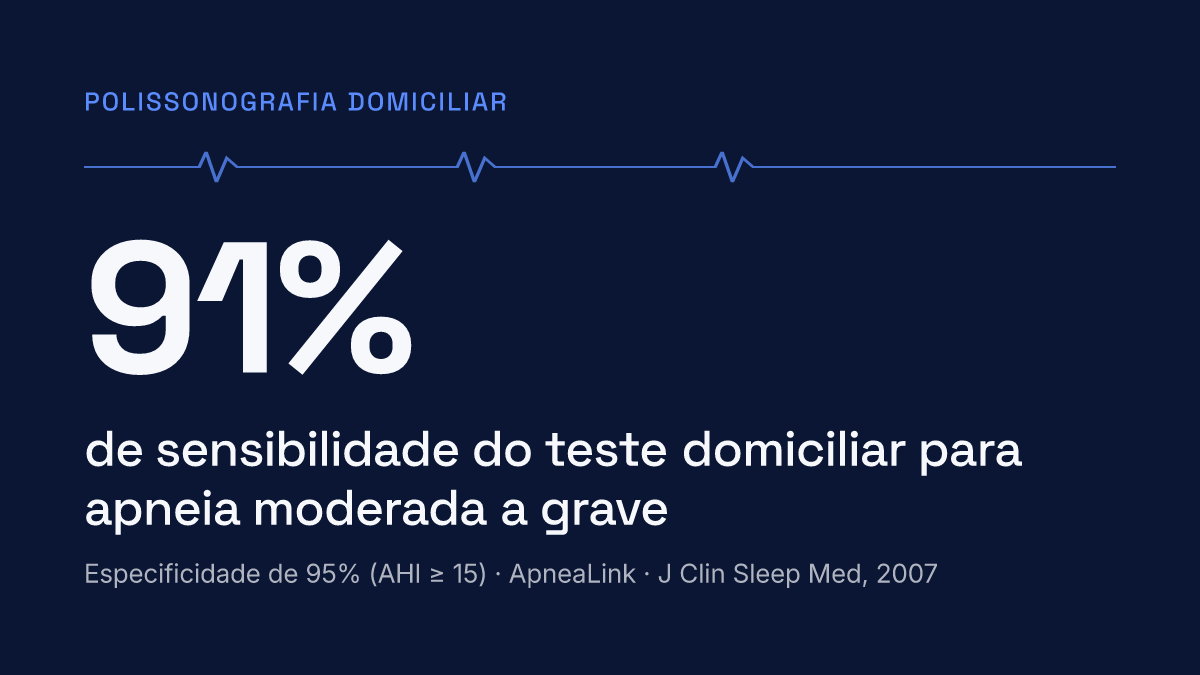
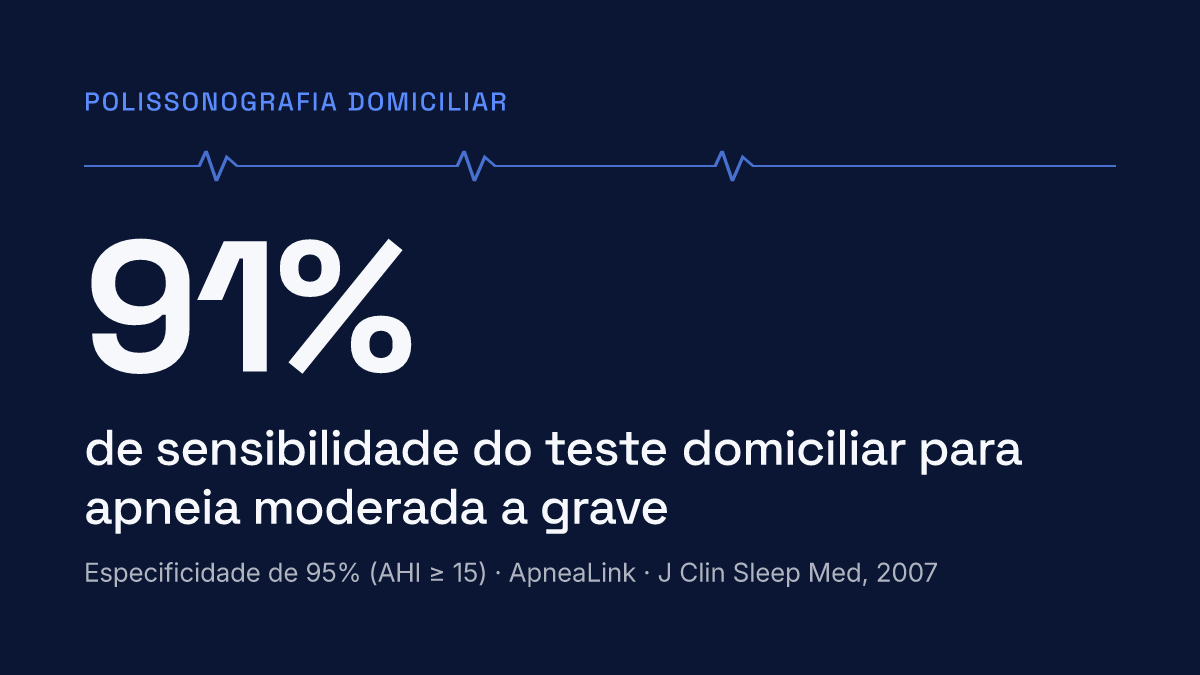
Corrige distorcao das imagens dos cards e adiciona versao mobile
Bug real: os <img> tinham width/height="1200"/"675" fixos no HTML, mas o
CSS so sobrescrevia a largura (width:100%), deixando a altura travada em
675px em qualquer largura de tela. Resultado: card esticado verticalmente
e ocupando altura maior que deveria. Fix: height:auto na regra
.article-content figure img.

Adiciona versao mobile (formato 4:5) de cada um dos 6 cards, seguindo o
padrao ja usado no resto do site (<picture> com fonte mobile abaixo de
768px, WebP com fallback PNG). Levou a um segundo bug real: nos dois
layouts do card-service, o conteudo ficava colado numa ponta (topo ou
rodape) e no formato retrato sobrava um vao vazio enorme no meio —
corrigido no card-service centralizando o bloco de conteudo verticalmente
nos dois layouts (commit correspondente no repo pulsemd-automacao).

diff --git a/apneia-do-sono-e-fibrilacao-atrial.html b/apneia-do-sono-e-fibrilacao-atrial.html
@@ -122,7 +122,12 @@
     </div>
 
     <figure>
-      <img src="images/cards/apneia-fa-abertura.png" alt="O ronco deixou de ser só um incômodo noturno — a apneia obstrutiva do sono é hoje reconhecida como fator de risco cardiovascular modificável, ligado à fibrilação atrial" loading="lazy" width="1200" height="675">
+      <picture>
+        <source media="(max-width: 768px)" srcset="images/cards/apneia-fa-abertura-mobile.webp" type="image/webp">
+        <source media="(max-width: 768px)" srcset="images/cards/apneia-fa-abertura-mobile.png">
+        <source srcset="images/cards/apneia-fa-abertura.webp" type="image/webp">
+        <img src="images/cards/apneia-fa-abertura.png" alt="O ronco deixou de ser só um incômodo noturno — a apneia obstrutiva do sono é hoje reconhecida como fator de risco cardiovascular modificável, ligado à fibrilação atrial" loading="lazy" width="1200" height="675">
+      </picture>
     </figure>
 
     <p>A fibrilação atrial é a arritmia cardíaca sustentada mais comum do mundo. Ela afeta milhões de pessoas e está associada a um maior risco de acidente vascular cerebral (AVC), insuficiência cardíaca, hospitalizações e redução da qualidade de vida. Muitos pacientes recebem o diagnóstico após episódios de palpitações, sensação de coração acelerado, falta de ar ou cansaço excessivo, enquanto outros descobrem a condição durante exames de rotina, mesmo sem sintomas evidentes.</p>
@@ -155,7 +160,12 @@
 
 
     <figure>
-      <img src="images/cards/apneia-fa-mecanismo.png" alt="Cada pausa na respiração cobra um preço do coração — queda de oxigênio, descarga de adrenalina, oscilação da pressão e inflamação remodelam os átrios ao longo do tempo" loading="lazy" width="1200" height="675">
+      <picture>
+        <source media="(max-width: 768px)" srcset="images/cards/apneia-fa-mecanismo-mobile.webp" type="image/webp">
+        <source media="(max-width: 768px)" srcset="images/cards/apneia-fa-mecanismo-mobile.png">
+        <source srcset="images/cards/apneia-fa-mecanismo.webp" type="image/webp">
+        <img src="images/cards/apneia-fa-mecanismo.png" alt="Cada pausa na respiração cobra um preço do coração — queda de oxigênio, descarga de adrenalina, oscilação da pressão e inflamação remodelam os átrios ao longo do tempo" loading="lazy" width="1200" height="675">
+      </picture>
     </figure>
 
     <h2>Como a apneia do sono afeta o coração?</h2>
@@ -176,7 +186,12 @@
 
 
     <figure>
-      <img src="images/cards/apneia-fa-prevalencia.png" alt="78% dos pacientes com fibrilação atrial têm algum distúrbio respiratório do sono — revisão sistemática com 23.894 pacientes, Canadian Journal of Cardiology, 2021" loading="lazy" width="1200" height="675">
+      <picture>
+        <source media="(max-width: 768px)" srcset="images/cards/apneia-fa-prevalencia-mobile.webp" type="image/webp">
+        <source media="(max-width: 768px)" srcset="images/cards/apneia-fa-prevalencia-mobile.png">
+        <source srcset="images/cards/apneia-fa-prevalencia.webp" type="image/webp">
+        <img src="images/cards/apneia-fa-prevalencia.png" alt="78% dos pacientes com fibrilação atrial têm algum distúrbio respiratório do sono — revisão sistemática com 23.894 pacientes, Canadian Journal of Cardiology, 2021" loading="lazy" width="1200" height="675">
+      </picture>
     </figure>
 
     <h2>Quem deve investigar apneia do sono?</h2>

diff --git a/fibrilacao-atrial-recorrencia-apos-ablacao.html b/fibrilacao-atrial-recorrencia-apos-ablacao.html
@@ -128,7 +128,12 @@
     </div>
 
     <figure>
-      <img src="images/cards/ablacao-fa-abertura.png" alt="A ablação trata a arritmia, não trata o que a alimenta — fatores como a apneia do sono seguem agindo sobre o coração e podem favorecer o retorno da fibrilação atrial" loading="lazy" width="1200" height="675">
+      <picture>
+        <source media="(max-width: 768px)" srcset="images/cards/ablacao-fa-abertura-mobile.webp" type="image/webp">
+        <source media="(max-width: 768px)" srcset="images/cards/ablacao-fa-abertura-mobile.png">
+        <source srcset="images/cards/ablacao-fa-abertura.webp" type="image/webp">
+        <img src="images/cards/ablacao-fa-abertura.png" alt="A ablação trata a arritmia, não trata o que a alimenta — fatores como a apneia do sono seguem agindo sobre o coração e podem favorecer o retorno da fibrilação atrial" loading="lazy" width="1200" height="675">
+      </picture>
     </figure>
 
     <p>Para muitos pacientes, a ablação representa o fim de uma longa jornada marcada por palpitações, consultas, medicamentos e limitações na rotina. O procedimento é uma das maiores conquistas da eletrofisiologia moderna e oferece excelentes resultados: em muitos casos, reduz os sintomas, melhora a qualidade de vida e diminui a recorrência da fibrilação atrial.</p>
@@ -145,7 +150,12 @@
 
 
     <figure>
-      <img src="images/cards/ablacao-fa-recorrencia.png" alt="+70% de risco de recorrência da fibrilação atrial em quem tem apneia do sono não tratada — meta-análise com 4.572 pacientes, odds ratio 1,70, Journal of Evidence-Based Medicine, 2018" loading="lazy" width="1200" height="675">
+      <picture>
+        <source media="(max-width: 768px)" srcset="images/cards/ablacao-fa-recorrencia-mobile.webp" type="image/webp">
+        <source media="(max-width: 768px)" srcset="images/cards/ablacao-fa-recorrencia-mobile.png">
+        <source srcset="images/cards/ablacao-fa-recorrencia.webp" type="image/webp">
+        <img src="images/cards/ablacao-fa-recorrencia.png" alt="+70% de risco de recorrência da fibrilação atrial em quem tem apneia do sono não tratada — meta-análise com 4.572 pacientes, odds ratio 1,70, Journal of Evidence-Based Medicine, 2018" loading="lazy" width="1200" height="675">
+      </picture>
     </figure>
 
     <h2>O que os estudos demonstram?</h2>
@@ -162,7 +172,12 @@
 
 
     <figure>
-      <img src="images/cards/ablacao-fa-diagnostico.png" alt="91% de sensibilidade do teste domiciliar de apneia para casos moderados a graves — especificidade de 95%, validação do ApneaLink, Journal of Clinical Sleep Medicine, 2007" loading="lazy" width="1200" height="675">
+      <picture>
+        <source media="(max-width: 768px)" srcset="images/cards/ablacao-fa-diagnostico-mobile.webp" type="image/webp">
+        <source media="(max-width: 768px)" srcset="images/cards/ablacao-fa-diagnostico-mobile.png">
+        <source srcset="images/cards/ablacao-fa-diagnostico.webp" type="image/webp">
+        <img src="images/cards/ablacao-fa-diagnostico.png" alt="91% de sensibilidade do teste domiciliar de apneia para casos moderados a graves — especificidade de 95%, validação do ApneaLink, Journal of Clinical Sleep Medicine, 2007" loading="lazy" width="1200" height="675">
+      </picture>
     </figure>
 
     <h2>Como é feito o diagnóstico?</h2>

diff --git a/css/style.css b/css/style.css
@@ -215,7 +215,7 @@ main > .section h1, main > .article-content h1, .article-content h1 { font-size:
 .article-content li { font-size: 18px; color: var(--muted); line-height: 1.8; margin-bottom: 8px; }
 .article-content strong { color: var(--navy); }
 .article-content figure { margin: 34px 0; }
-.article-content figure img { width: 100%; border-radius: 16px; box-shadow: var(--shadow); }
+.article-content figure img { width: 100%; height: auto; border-radius: 16px; box-shadow: var(--shadow); }
 
 /* ===================== META DO ARTIGO ===================== */
 .article-meta { color: var(--muted); font-size: 15px; text-align: center; margin: 8px 0 10px; }
